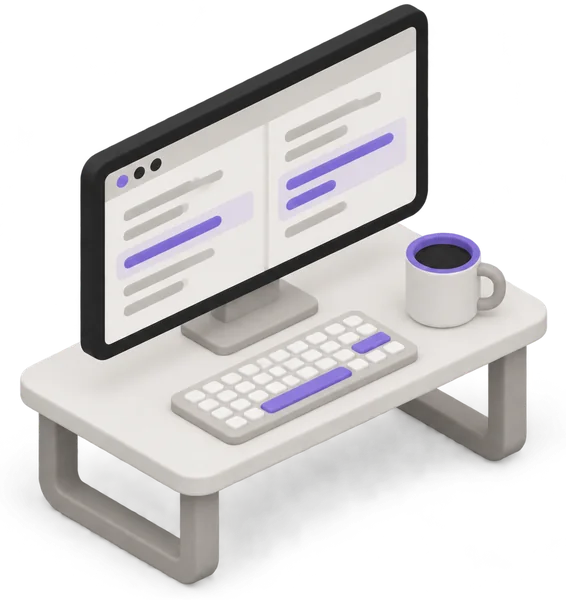
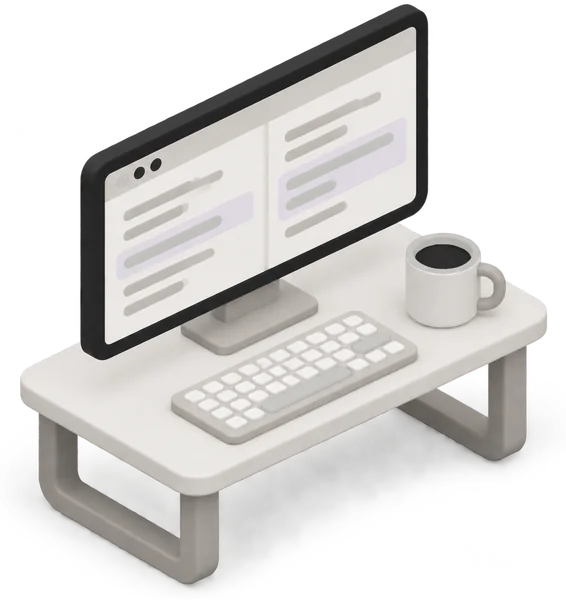
Samsung DRS illustrations: white and warm greys only
The isometric illustrations' violet accents are now the palette's warm
greys, by image processing rather than new generations. Each pixel is
weighted by how near its hue is to the violet and how saturated it is,
so edges and faint tints blend in; strong accents take a mid warm grey
that keeps their own light and shade (their luminance remapped into
about 160-230, so they still read on white), and faint tints are just
desaturated. Everything else and the transparency are untouched, so the
files keep their sizes (786 KB in all) and no violet is left in any.

Claude-Session: https://claude.ai/code/session_01XcuVekv5aR53sJ9TWsJBUc

diff --git a/components/embeds/samsung-drs-art.tsx b/components/embeds/samsung-drs-art.tsx
@@ -2,8 +2,9 @@ import type { CSSProperties } from "react";
 import styles from "./samsung-drs.module.css";
 
 // Isometric 3D illustrations of the printing division's world, generated at low quality on transparency
-// (public/media/samsung-drs/art/) in one small palette: white, two warm greys, one violet for accents and a near-black
-// for details. They stand in rows of three, each row opening a part of the page.
+// (public/media/samsung-drs/art/) in white, warm greys and a near-black for details. They were drawn with violet
+// accents, which were then turned into the warm greys by hue (keeping their light and shade), so the palette is white
+// throughout. They stand in rows of three, each row opening a part of the page.
 
 const ART: Record<string, { width: number; height: number; alt: string }> = {
   printer: {
